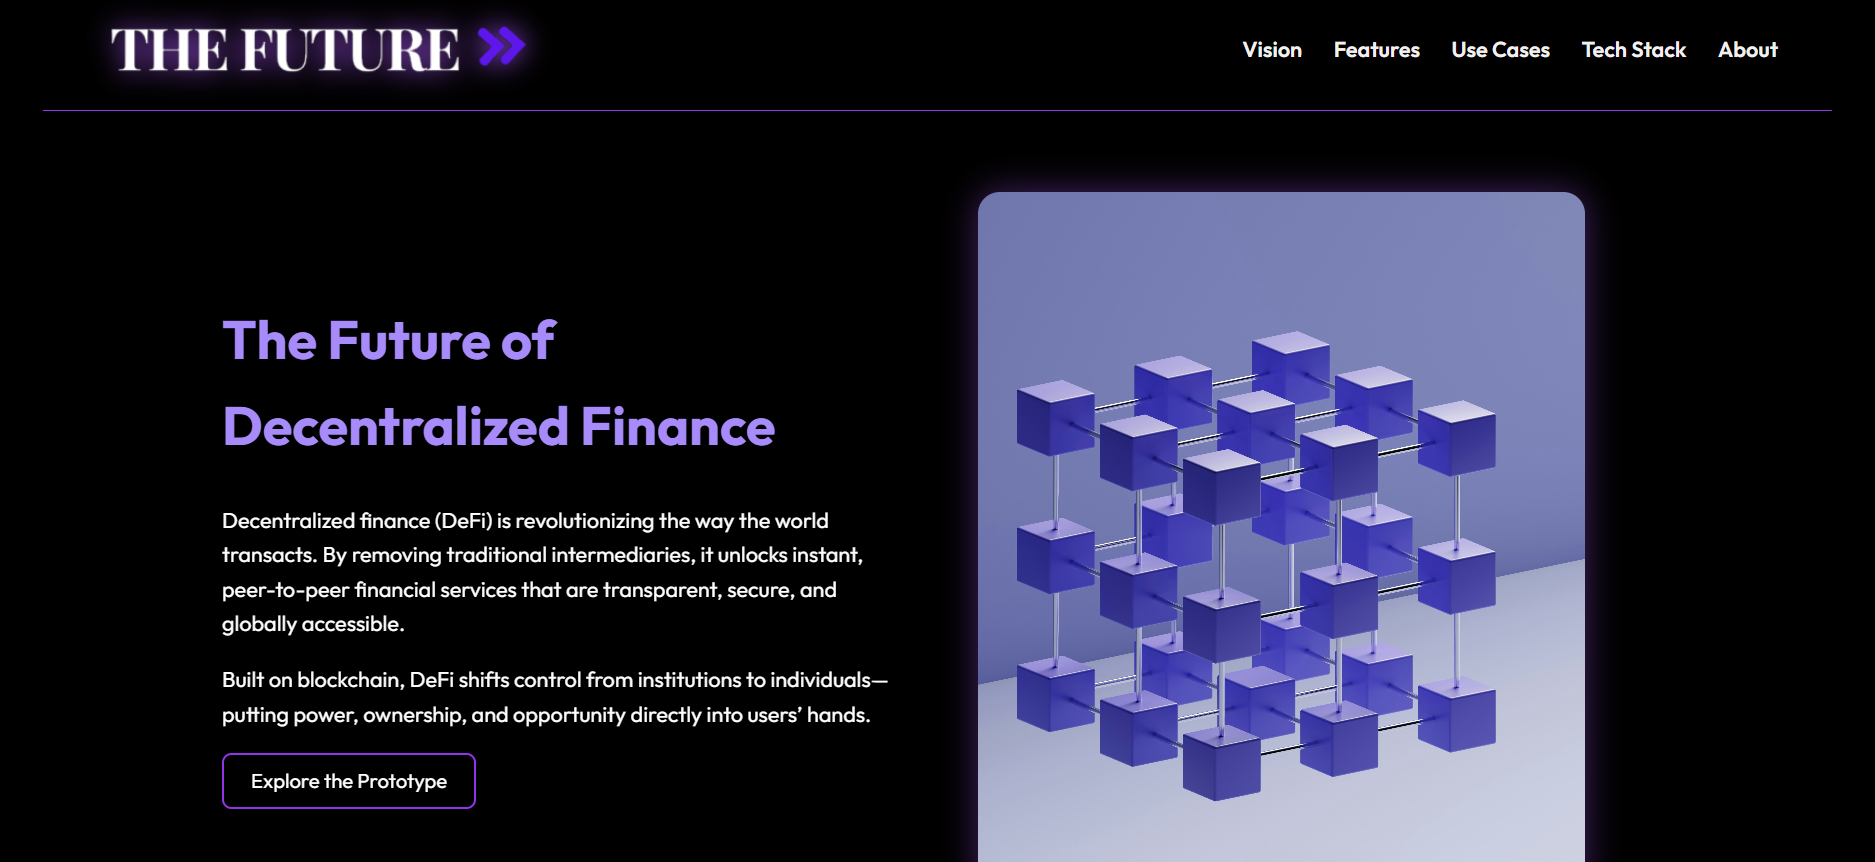
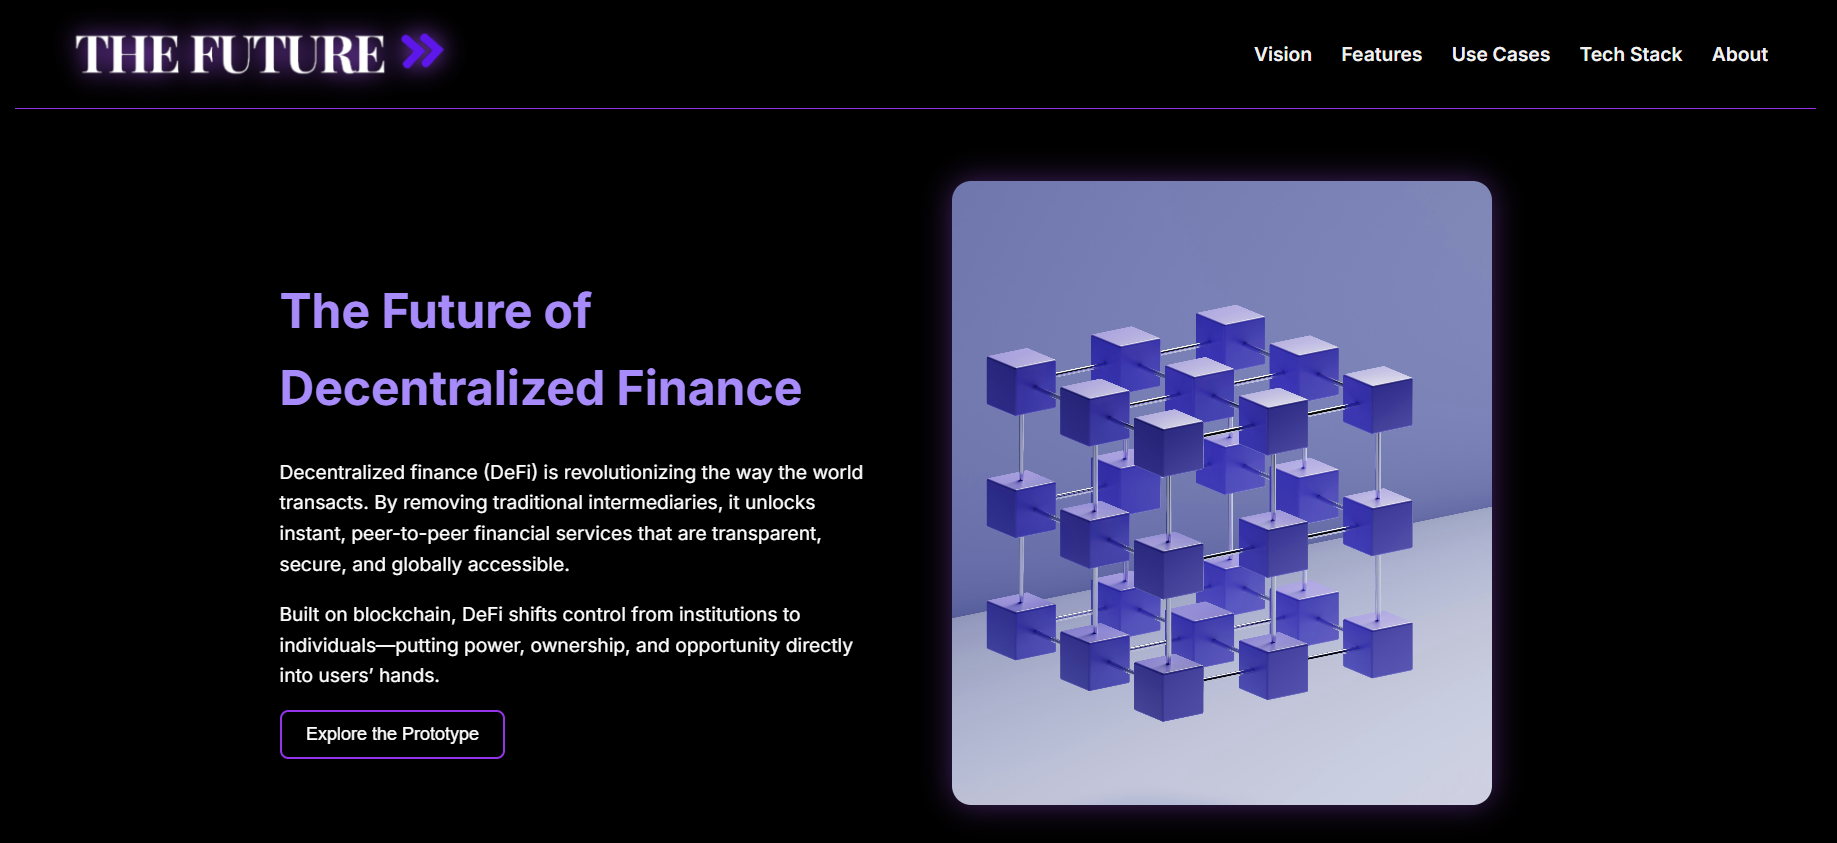
Production ready landing page

diff --git a/index.html b/index.html
@@ -6,7 +6,8 @@
   <meta name="viewport" content="width=device-width, initial-scale=1.0" />
   <title>Decentralized Finance | DeFi Future</title>
   <link rel="stylesheet" href="style.css" />
-  <link href="https://fonts.googleapis.com/css2?family=Outfit:wght@400;600;700&display=swap" rel="stylesheet" />
+  <link href="https://fonts.googleapis.com/css2?family=Inter:wght@400;600;700&display=swap" rel="stylesheet">
+
 </head>
 
 <body>
@@ -86,15 +87,15 @@
 
     <section class="info-section animate-fade-in" id="demo">
       <h2>Want to See It in Action?</h2>
-      <center><a href="#" class="btn">🚀 Join the Waitlist</a>
-        &nbsp;&nbsp;&nbsp;&nbsp;&nbsp;&nbsp;&nbsp;&nbsp;&nbsp;&nbsp;
-        <a href="#" class="btn">📖 Read the Whitepaper</a>
+      <center>
+      <a href="#" class="btn">🚀 Join the Waitlist</a>
+      <a href="#" class="btn">📖 Read the Whitepaper</a>
       </center>
     </section>
 
     <section class="info-section animate-fade-in" id="bio">
       <h2>Meet the Visionary</h2>
-      <p style="font-size: 40px; color: #d8b4fe;"><strong>Aifuwa Jeffery – Lead Cloud Engineer</strong></p>
+      <p style="font-size: 30px; color: #ffffff;"><strong>Aifuwa Jeffery</strong> <span style="font-size: 20px; color:#d8b4fe;"> <em>- Lead Cloud Engineer</em></span></p> <br>
       <p>
         I am a Cloud/DevOps Engineer with a background in mechanical engineering and a cloud engineering diploma
         (in
@@ -106,7 +107,7 @@
       </p>
       <br><br>
       <center>
-        <p style="font-size: 25px;" ><em>"We believe in a financial future owned by its users."</em></p>
+        <p style="font-size: 25px;"><em>"We believe in a financial future owned by its users."</em></p>
       </center>
     </section>
 
@@ -179,11 +180,13 @@
 
     <section class="info-section animate-fade-in" id="contact">
       <h2>Contact</h2>
-      <p>Email: <a href="mailto:jefferyaifuwa@gmail.com">jefferyaifuwa@gmail.com</a></p>
-      <p>LinkedIn: <a href="https://www.linkedin.com/in/jefferyaifuwa-cloud/"
+      <ul>
+        <li><p>Email: <a href="mailto:jefferyaifuwa@gmail.com">jefferyaifuwa@gmail.com</a></p></li>
+      <li><p>LinkedIn: <a href="https://www.linkedin.com/in/jefferyaifuwa-cloud/"
           target="_blank">linkedin.com/in/jefferyaifuwa-cloud</a>
-      </p>
-      <p>GitHub: <a href="https://github.com/Jeffery-Aifuwa" target="_blank">github.com/jeffery-aifuwa</a></p>
+      </p></li>
+      <li><p>GitHub: <a href="https://github.com/Jeffery-Aifuwa" target="_blank">github.com/jeffery-aifuwa</a></p></li>
+      </ul>
     </section>
 
     <footer>

diff --git a/style.css b/style.css
@@ -6,12 +6,16 @@
 }
 
 body {
-  font-family: 'Outfit', sans-serif;
+  font-family: 'Inter', sans-serif;
   background: #000;
   color: white;
   padding: 40px;
   line-height: 1.6;
   overflow-x: hidden;
+}
+
+h1, h2, h3, h4, h5 {
+  font-weight: 700;
 }
 
 .logo {
@@ -75,7 +79,7 @@ button {
   transition: all 0.5s ease;
   font-size: 15px;
   border-radius: 7px;
-  font-family: 'Outfit', sans-serif;
+  font-family: "Outfit", sans-serif;
 }
 
 button:hover {
@@ -125,23 +129,51 @@ ul li {
 
 /* Animations */
 @keyframes fadeIn {
-  0% { opacity: 0; transform: translateY(20px); }
-  100% { opacity: 1; transform: translateY(0); }
+  0% {
+    opacity: 0;
+    transform: translateY(20px);
+  }
+
+  100% {
+    opacity: 1;
+    transform: translateY(0);
+  }
 }
 
 @keyframes slideInLeft {
-  0% { opacity: 0; transform: translateX(-100px); }
-  100% { opacity: 1; transform: translateX(0); }
+  0% {
+    opacity: 0;
+    transform: translateX(-100px);
+  }
+
+  100% {
+    opacity: 1;
+    transform: translateX(0);
+  }
 }
 
 @keyframes slideInRight {
-  0% { opacity: 0; transform: translateX(100px); }
-  100% { opacity: 1; transform: translateX(0); }
+  0% {
+    opacity: 0;
+    transform: translateX(100px);
+  }
+
+  100% {
+    opacity: 1;
+    transform: translateX(0);
+  }
 }
 
 @keyframes scaleIn {
-  0% { opacity: 0; transform: scale(0.9); }
-  100% { opacity: 1; transform: scale(1); }
+  0% {
+    opacity: 0;
+    transform: scale(0.9);
+  }
+
+  100% {
+    opacity: 1;
+    transform: scale(1);
+  }
 }
 
 .animate-fade-in {
@@ -207,4 +239,43 @@ ul li {
 
 .btn:hover {
   background: #7e22ce;
+}
+
+@media (max-width: 768px) {
+  header {
+    flex-direction: column;
+    align-items: center;
+    padding: 1rem;
+  }
+
+  header nav {
+    display: none;
+  }
+
+  header img {
+    margin-bottom: 0.5rem;
+  }
+
+  .identity,
+  .profile {
+    text-align: center;
+    padding: 0 1rem;
+  }
+
+  .identity h3.role {
+    font-size: 28px;
+  }
+
+  .identity .pitch {
+    font-size: 14px;
+  }
+
+  .profile img {
+    max-width: 100%;
+    height: auto;
+  }
+
+  .btn{
+    align-content: center;
+  }
 }

diff --git a/README.md b/README.md
@@ -94,12 +94,6 @@ pm2 restart Startup-Landing-Prototype
 
 - Final Result:
 ![Startup-Landing-Prototype](./Assets/Startup-Landing-Prototype%201.png)
-![Startup-Landing-Prototype](./Assets/Startup-Landing-Prototype%202.png)
-![Startup-Landing-Prototype](./Assets/Startup-Landing-Prototype%203.png)
-![Startup-Landing-Prototype](./Assets/Startup-Landing-Prototype%204.png)
-![Startup-Landing-Prototype](./Assets/Startup-Landing-Prototype%205.png)
-![Startup-Landing-Prototype](./Assets/Startup-Landing-Prototype%206.png)
-
 
 4. **Networking & Security (Production-Ready)**
 - Created a free domain to host my web page: thefuture.r-o-o-t.net
